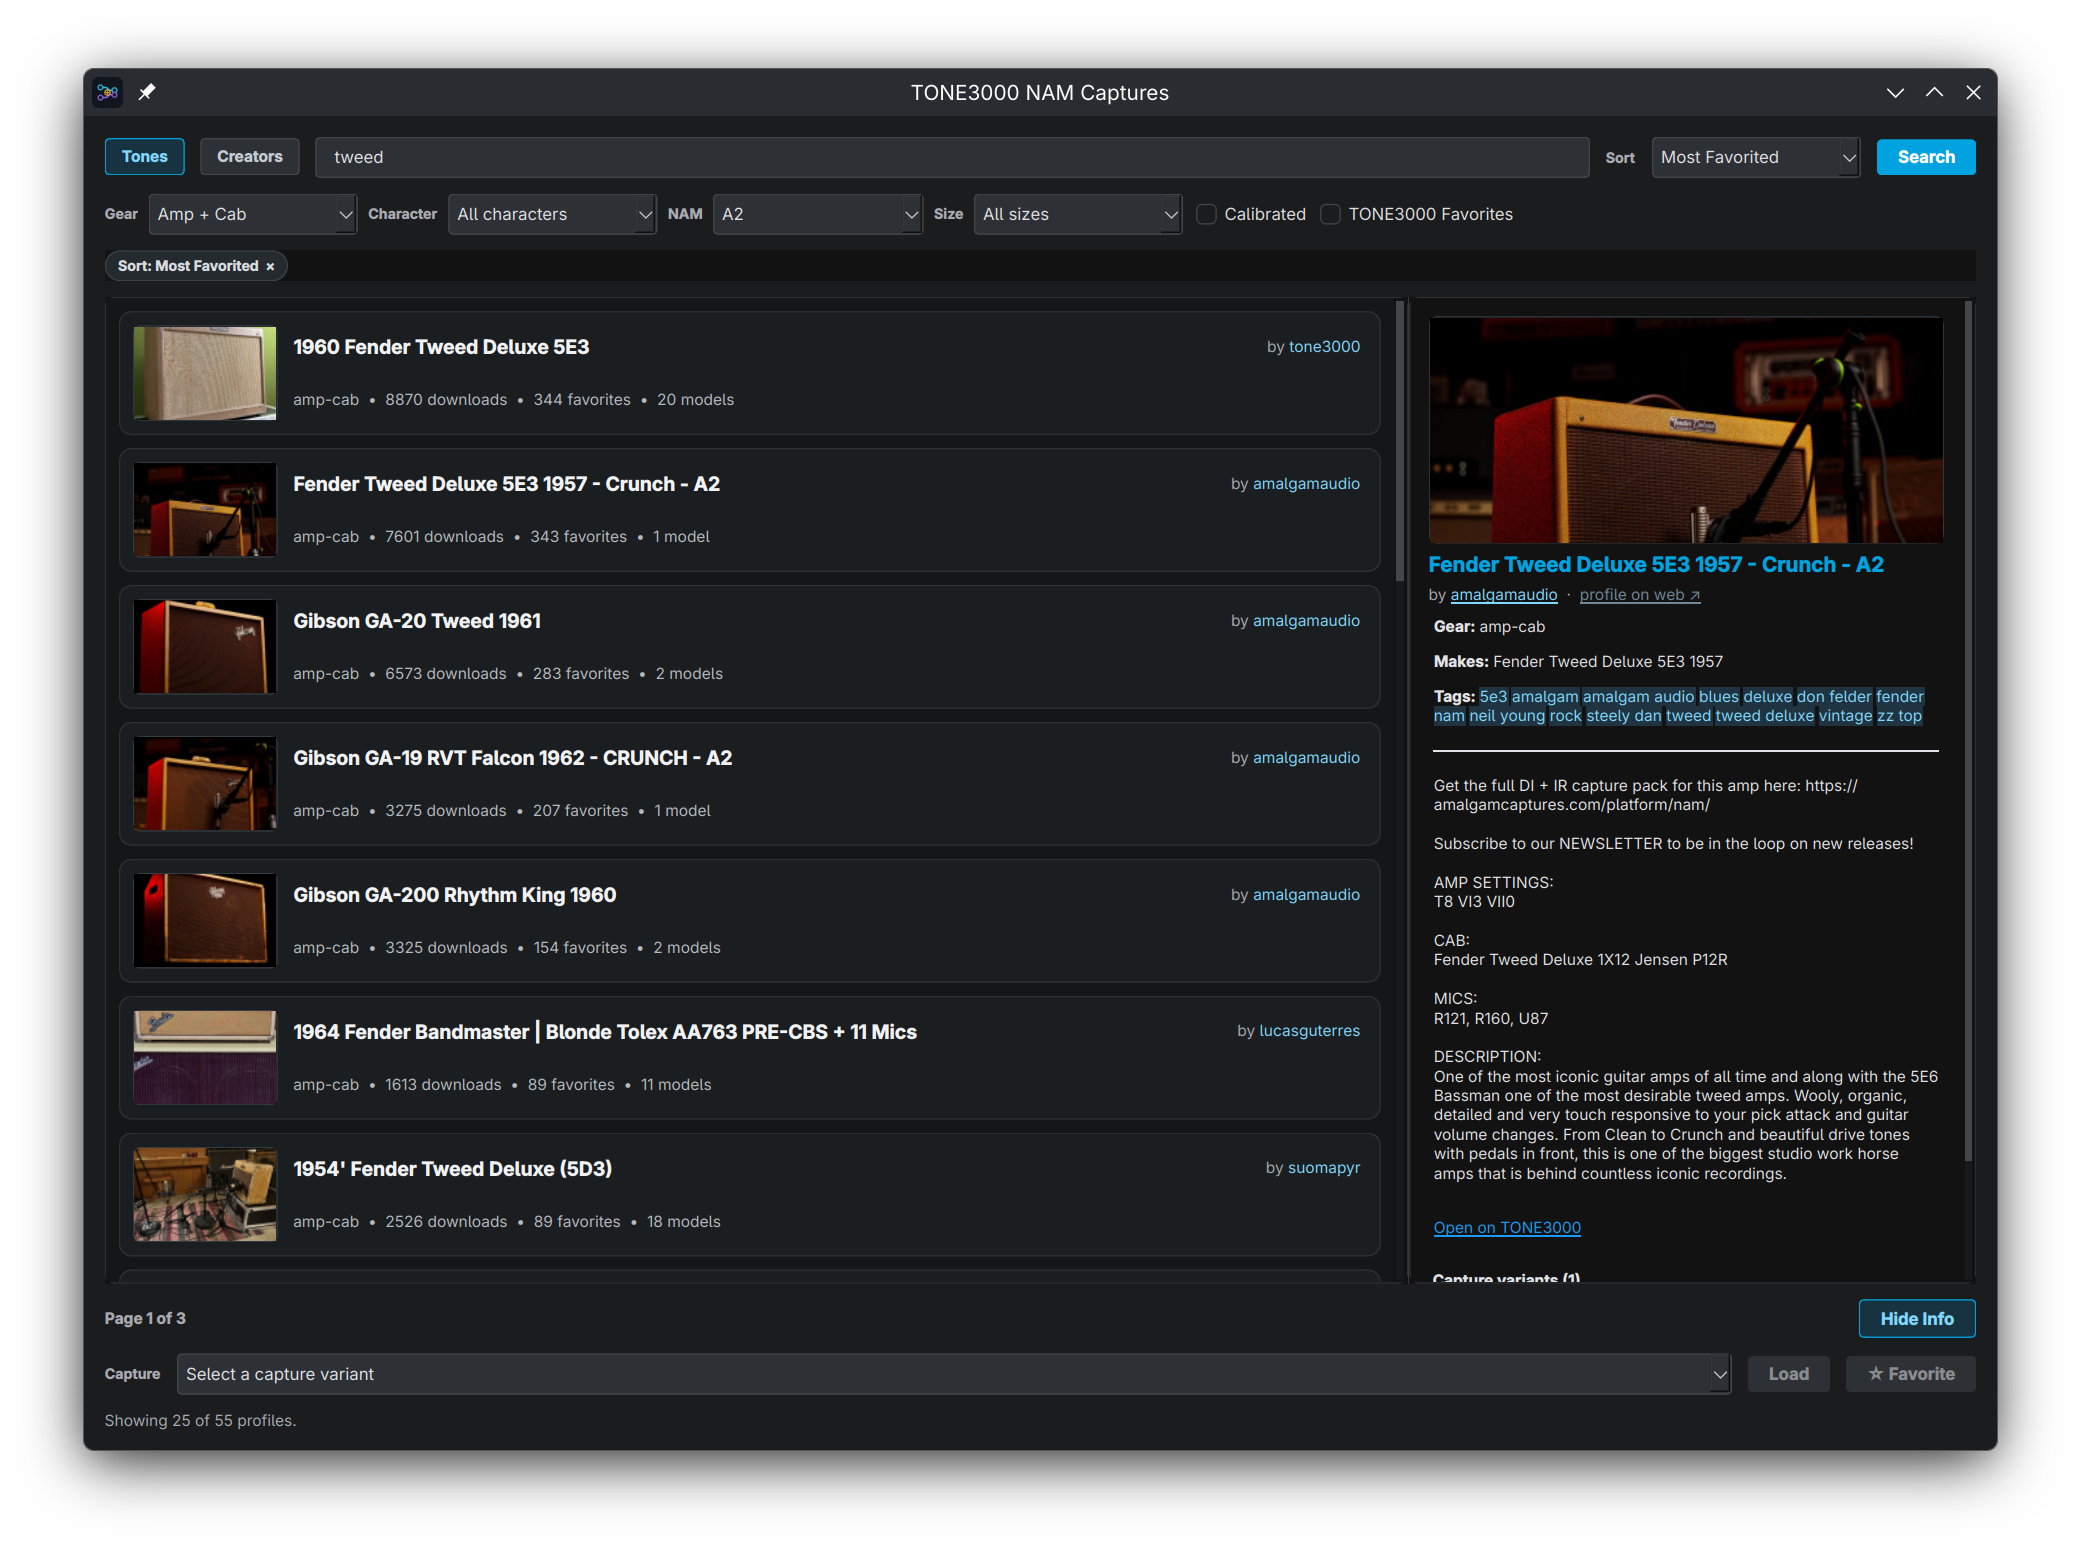
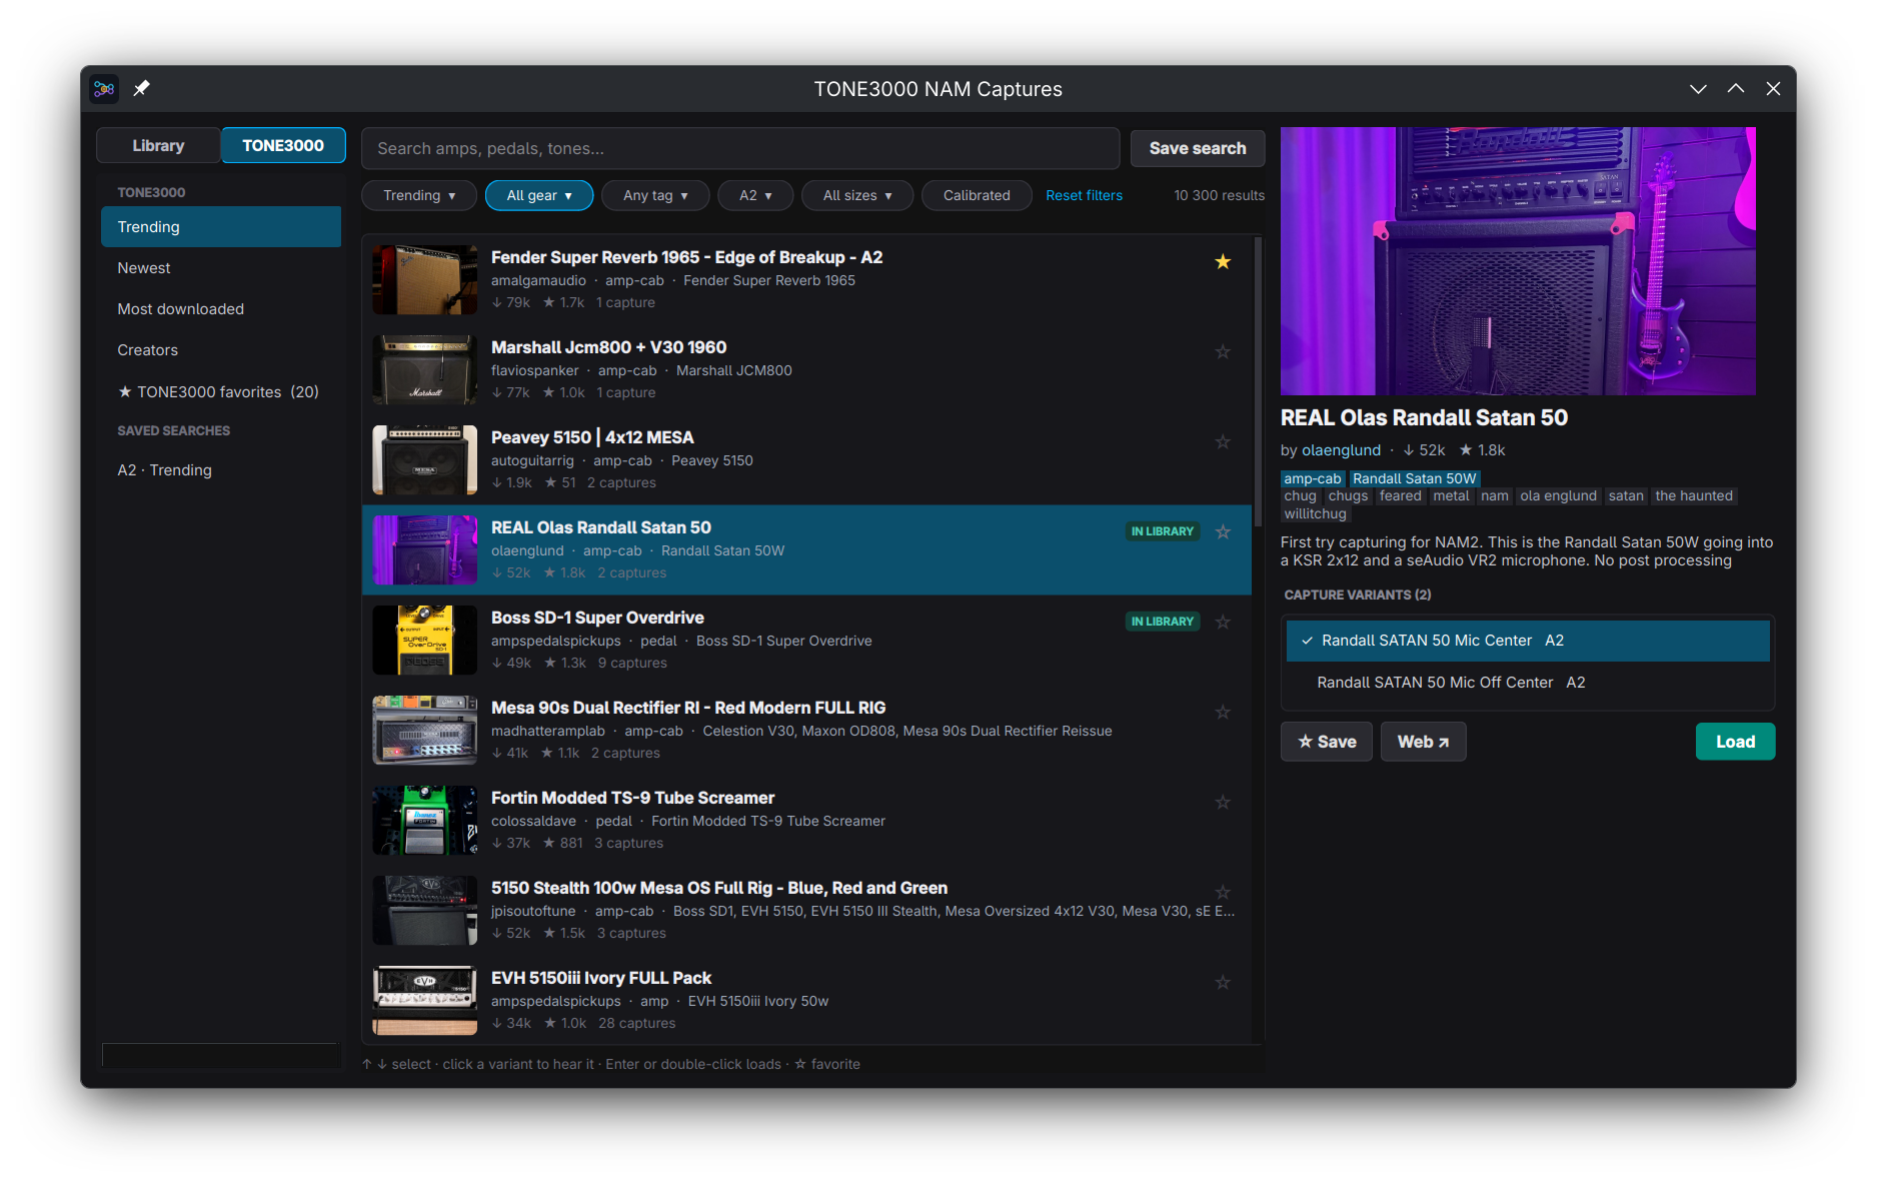
docs: new TONE3000 and library screenshots, FAQ updates
- Replace the TONE3000 browser screenshot and add one of the capture library.
- Link the FAQ from the bug report section.
- FAQ: plugin windows opening at the wrong size, and starting the AppImage
  without FUSE.

diff --git a/FAQ.md b/FAQ.md
@@ -59,7 +59,21 @@ with it.
 In `winecfg`, Graphics tab, untick "Allow the window manager to decorate the
 windows" and "Allow the window manager to control the windows".
 
+### A plugin window opens at the wrong size
+
+Some Windows plugins (for example AmpliTube 5 through vstbridge on some
+systems) draw at the wrong size until the window is resized. Drag a corner of
+the window a little.
+
 ### RigRoom closed when I loaded a Windows plugin
 
 Some plugins crash under Wine (BIAS FX 2, for example), and RigRoom may close
 with them. Save your preset before trying a new Windows plugin.
+
+## AppImage
+
+### The AppImage doesn't start and mentions FUSE
+
+The AppImage mounts itself with FUSE, which desktop distributions include.
+Without it (for example in a container), start it with
+`./RigRoom-<version>-x86_64.AppImage --appimage-extract-and-run`.

diff --git a/README.md b/README.md
@@ -78,6 +78,11 @@ and play it from a MIDI footswitch.
   into a block.
 - **Browse by creator** and open a creator's profile.
 
+![Your capture library](Screenshots/Capture_library.png)
+
+- **Capture library** with your own folders, tags and ratings for the
+  captures and impulse responses you keep.
+
 ### Audio engine
 
 - Runs on **PipeWire-JACK or JACK**, with the block size, ports and gains chosen
@@ -141,6 +146,7 @@ Build dependencies:
 
 Report bugs and suggest features in
 [GitHub Issues](https://github.com/toiminimi/RigRoom/issues/new/choose).
+Known limitations and workarounds are in the [FAQ](FAQ.md).
 
 ---
 
